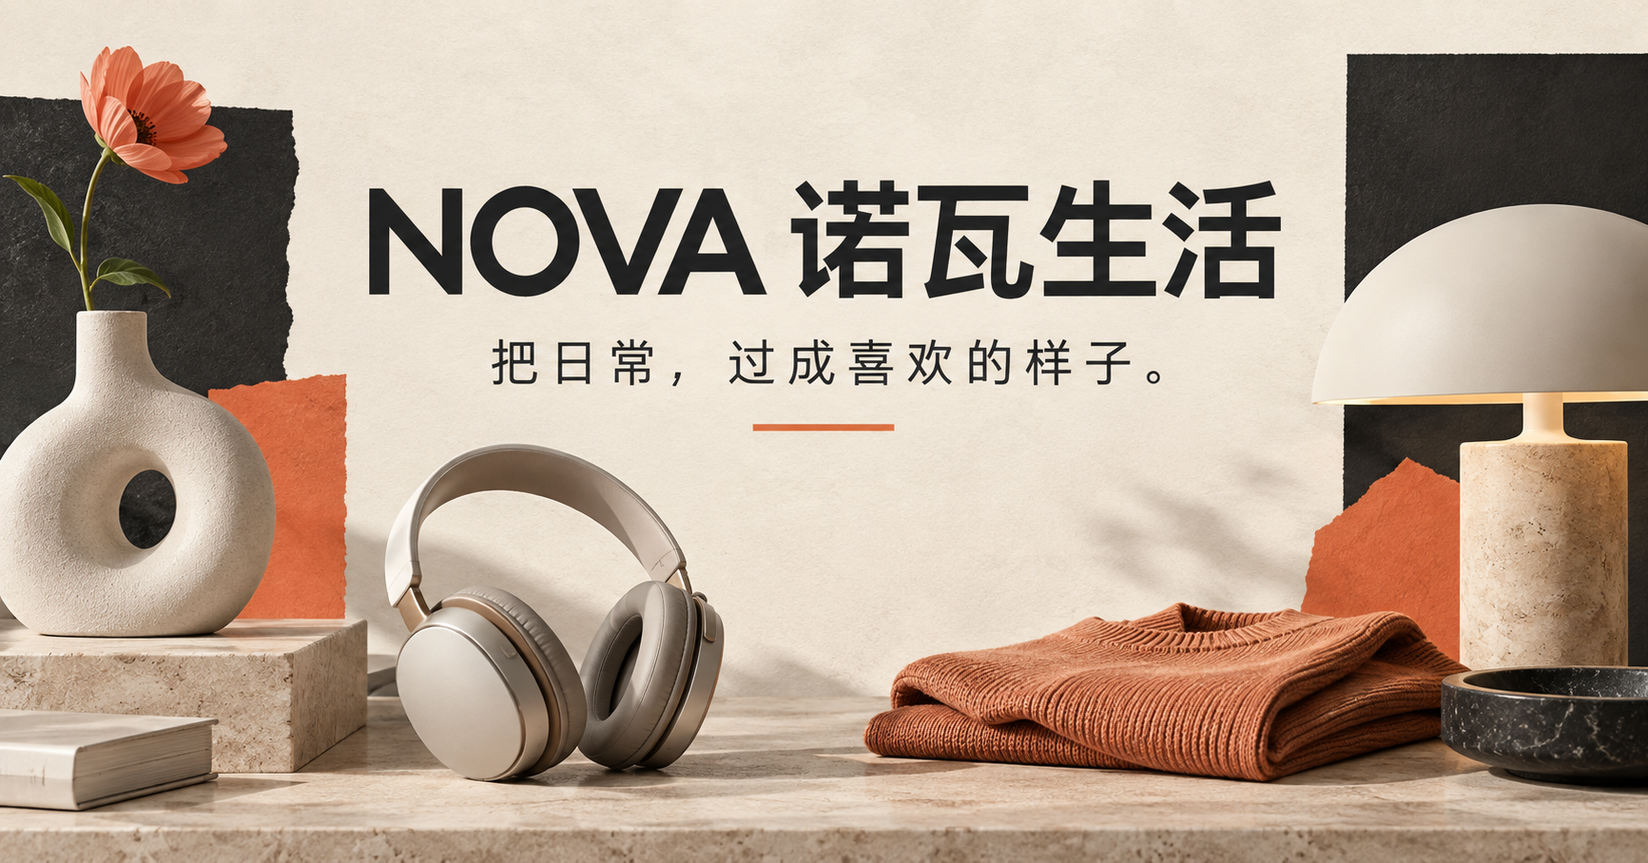
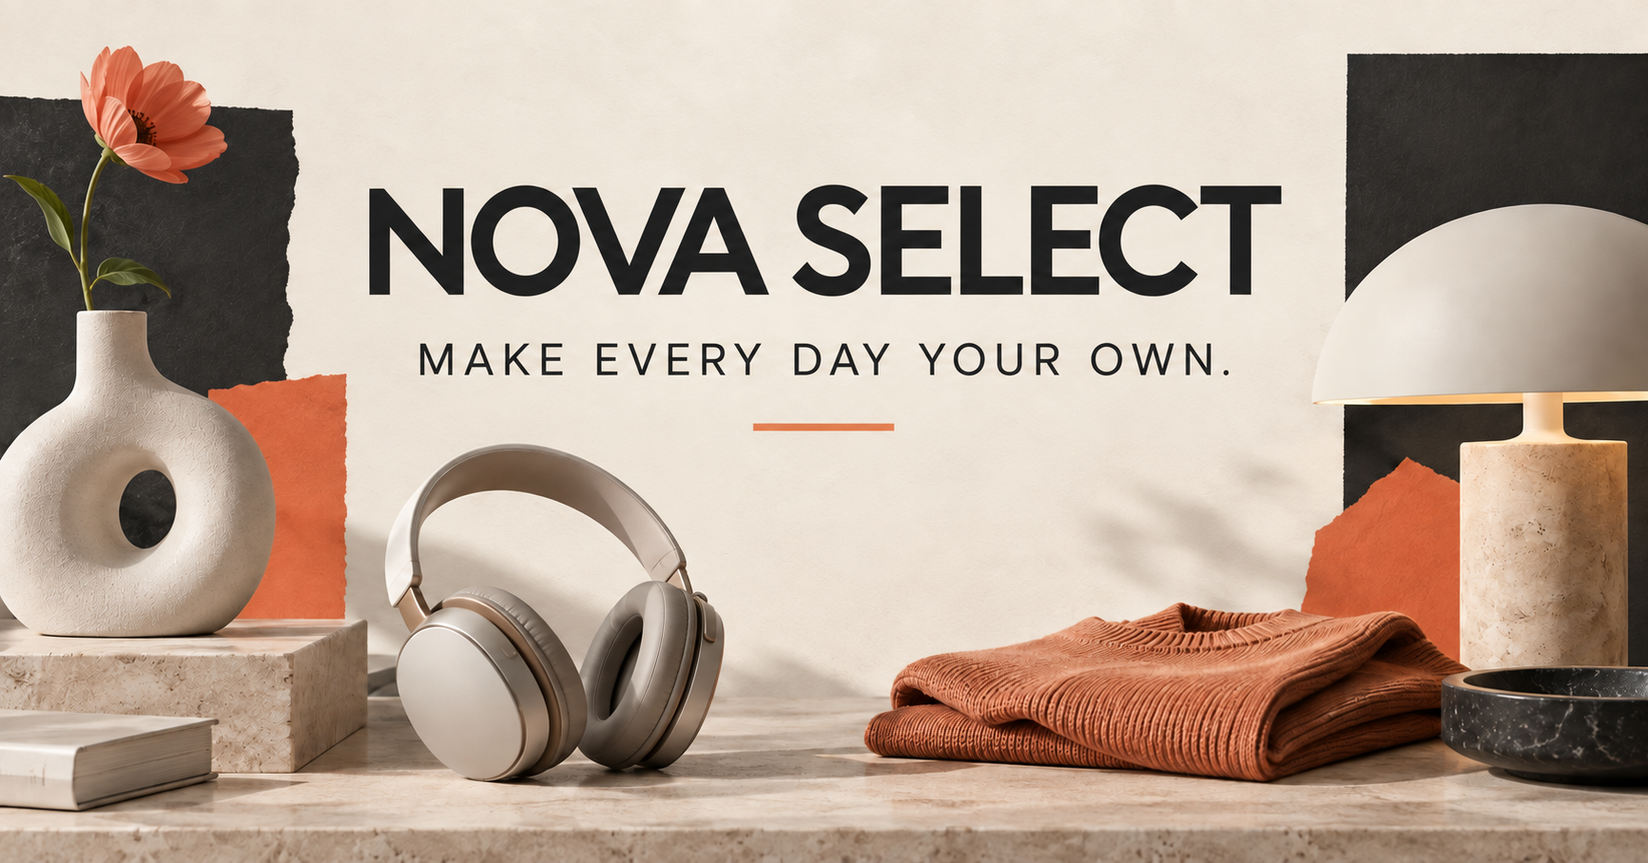
Translate storefront to English

diff --git a/app/page.tsx b/app/page.tsx
@@ -13,24 +13,24 @@ type Product = {
 };
 
 const products: Product[] = [
-  { id: 1, name: "Orbit 头戴式耳机", category: "数码影音", price: 899, badge: "NEW", image: "https://images.unsplash.com/photo-1505740420928-5e560c06d30e?auto=format&fit=crop&w=1000&q=85" },
-  { id: 2, name: "Cloud 陶瓷花器", category: "生活家居", price: 269, image: "https://images.unsplash.com/photo-1618220179428-22790b461013?auto=format&fit=crop&w=1000&q=85" },
-  { id: 3, name: "Lumen 桌面氛围灯", category: "生活家居", price: 459, badge: "HOT", image: "https://images.unsplash.com/photo-1507473885765-e6ed057f782c?auto=format&fit=crop&w=1000&q=85" },
-  { id: 4, name: "Studio 皮革托特包", category: "服装鞋履", price: 729, original: 899, badge: "SALE", image: "https://images.unsplash.com/photo-1548036328-c9fa89d128fa?auto=format&fit=crop&w=1000&q=85" },
-  { id: 5, name: "Sunday 手冲咖啡壶", category: "生活家居", price: 329, image: "https://images.unsplash.com/photo-1495474472287-4d71bcdd2085?auto=format&fit=crop&w=1000&q=85" },
-  { id: 6, name: "Tempo 极简腕表", category: "服装鞋履", price: 1199, badge: "NEW", image: "https://images.unsplash.com/photo-1523275335684-37898b6baf30?auto=format&fit=crop&w=1000&q=85" },
-  { id: 7, name: "Form 轻量运动鞋", category: "户外出行", price: 639, image: "https://images.unsplash.com/photo-1542291026-7eec264c27ff?auto=format&fit=crop&w=1000&q=85" },
-  { id: 8, name: "Still 香氛蜡烛", category: "美妆个护", price: 189, image: "https://images.unsplash.com/photo-1602874801006-e26b3748a09f?auto=format&fit=crop&w=1000&q=85" },
+  { id: 1, name: "Orbit Headphones", category: "Tech & Audio", price: 89, badge: "NEW", image: "https://images.unsplash.com/photo-1505740420928-5e560c06d30e?auto=format&fit=crop&w=1000&q=85" },
+  { id: 2, name: "Cloud Ceramic Vase", category: "Home & Living", price: 39, image: "https://images.unsplash.com/photo-1618220179428-22790b461013?auto=format&fit=crop&w=1000&q=85" },
+  { id: 3, name: "Lumen Table Lamp", category: "Home & Living", price: 69, badge: "HOT", image: "https://images.unsplash.com/photo-1507473885765-e6ed057f782c?auto=format&fit=crop&w=1000&q=85" },
+  { id: 4, name: "Studio Leather Tote", category: "Style", price: 119, original: 149, badge: "SALE", image: "https://images.unsplash.com/photo-1548036328-c9fa89d128fa?auto=format&fit=crop&w=1000&q=85" },
+  { id: 5, name: "Sunday Pour-Over Set", category: "Home & Living", price: 49, image: "https://images.unsplash.com/photo-1495474472287-4d71bcdd2085?auto=format&fit=crop&w=1000&q=85" },
+  { id: 6, name: "Tempo Minimal Watch", category: "Style", price: 149, badge: "NEW", image: "https://images.unsplash.com/photo-1523275335684-37898b6baf30e?auto=format&fit=crop&w=1000&q=85" },
+  { id: 7, name: "Form Lightweight Sneakers", category: "Outdoor", price: 79, image: "https://images.unsplash.com/photo-1542291026-7eec264c27ff?auto=format&fit=crop&w=1000&q=85" },
+  { id: 8, name: "Still Scented Candle", category: "Beauty & Care", price: 32, image: "https://images.unsplash.com/photo-1602874801006-e26b3748a09f?auto=format&fit=crop&w=1000&q=85" },
 ];
 
 const categories = [
-  ["01", "服装鞋履"], ["02", "生活家居"], ["03", "数码影音"], ["04", "美妆个护"], ["05", "户外出行"],
+  ["01", "Style"], ["02", "Home & Living"], ["03", "Tech & Audio"], ["04", "Beauty & Care"], ["05", "Outdoor"],
 ];
 
-const formatPrice = (price: number) => `¥${price.toLocaleString("zh-CN")}`;
+const formatPrice = (price: number) => `$${price.toFixed(2)}`;
 
 export default function Home() {
-  const [activeCategory, setActiveCategory] = useState("全部");
+  const [activeCategory, setActiveCategory] = useState("All");
   const [cart, setCart] = useState<number[]>([]);
   const [favorites, setFavorites] = useState<number[]>([]);
   const [searchOpen, setSearchOpen] = useState(false);
@@ -40,7 +40,7 @@ export default function Home() {
   const [toast, setToast] = useState("");
   const [email, setEmail] = useState("");
 
-  const visibleProducts = useMemo(() => activeCategory === "全部" ? products : products.filter((item) => item.category === activeCategory), [activeCategory]);
+  const visibleProducts = useMemo(() => activeCategory === "All" ? products : products.filter((item) => item.category === activeCategory), [activeCategory]);
   const searchResults = useMemo(() => products.filter((item) => `${item.name}${item.category}`.toLowerCase().includes(query.toLowerCase())), [query]);
   const cartItems = products.filter((item) => cart.includes(item.id));
   const subtotal = cartItems.reduce((sum, item) => sum + item.price, 0);
@@ -52,7 +52,7 @@ export default function Home() {
 
   const addToCart = (product: Product) => {
     if (!cart.includes(product.id)) setCart((items) => [...items, product.id]);
-    notify(cart.includes(product.id) ? "这件好物已经在购物袋里" : `已将「${product.name}」加入购物袋`);
+    notify(cart.includes(product.id) ? "This item is already in your bag" : `${product.name} added to your bag`);
   };
 
   const filterBy = (category: string) => {
@@ -62,57 +62,57 @@ export default function Home() {
 
   const submitNewsletter = (event: FormEvent) => {
     event.preventDefault();
-    if (!email.includes("@")) return notify("请填写有效的邮箱地址");
+    if (!email.includes("@")) return notify("Please enter a valid email address");
     setEmail("");
-    notify("订阅成功，欢迎加入 NOVA");
+    notify("You’re in — welcome to NOVA");
   };
 
   return (
     <main id="top">
-      <div className="notice"><span>新客首单立减 ¥50</span><i />满 ¥299 免费配送</div>
+      <div className="notice"><span>$10 OFF YOUR FIRST ORDER</span><i />FREE SHIPPING OVER $75</div>
       <header className="site-header">
-        <button className="menu-button" onClick={() => setMenuOpen(true)} aria-label="打开菜单">☰</button>
-        <a className="brand" href="#top" aria-label="NOVA 商城首页"><span className="brand-mark">N</span><span>NOVA</span></a>
-        <nav aria-label="主导航">
-          <a className="active" href="#new">新品</a><a href="#shop">精选好物</a><a href="#story">灵感指南</a><a href="#about">关于我们</a>
+        <button className="menu-button" onClick={() => setMenuOpen(true)} aria-label="Open menu">☰</button>
+        <a className="brand" href="#top" aria-label="NOVA home"><span className="brand-mark">N</span><span>NOVA</span></a>
+        <nav aria-label="Main navigation">
+          <a className="active" href="#new">New In</a><a href="#shop">Shop</a><a href="#story">Journal</a><a href="#about">Our Story</a>
         </nav>
         <div className="header-actions">
-          <button onClick={() => setSearchOpen(true)} aria-label="搜索"><span className="search-icon" /></button>
-          <button className="user-icon" onClick={() => notify("会员中心即将开放")} aria-label="个人中心">○</button>
-          <button className="bag-button" onClick={() => setCartOpen(true)} aria-label={`购物袋，${cart.length} 件商品`}><span className="bag-icon">▱</span><b>{cart.length}</b></button>
+          <button onClick={() => setSearchOpen(true)} aria-label="Search"><span className="search-icon" /></button>
+          <button className="user-icon" onClick={() => notify("Member accounts are coming soon")} aria-label="Account">○</button>
+          <button className="bag-button" onClick={() => setCartOpen(true)} aria-label={`Shopping bag, ${cart.length} items`}><span className="bag-icon">▱</span><b>{cart.length}</b></button>
         </div>
       </header>
 
       <section className="hero" id="new">
         <div className="hero-copy">
           <p className="eyebrow">NEW SEASON · 2026</p>
-          <h1>把日常，<br /><em>过成喜欢的样子。</em></h1>
-          <p className="hero-description">从轻盈穿搭到温柔家居，发现让生活焕然一新的设计好物。</p>
-          <a className="primary-button" href="#shop">探索本季新品 <span>→</span></a>
+          <h1>Make every day<br /><em>feel like your own.</em></h1>
+          <p className="hero-description">From effortless style to thoughtful interiors, discover design-led pieces that bring fresh energy to everyday life.</p>
+          <a className="primary-button" href="#shop">Explore the new season <span>→</span></a>
           <div className="hero-stats">
-            <div><strong>200+</strong><span>独立设计品牌</span></div><div><strong>48h</strong><span>闪电发货</span></div><div><strong>30天</strong><span>无忧退换</span></div>
+            <div><strong>200+</strong><span>Independent brands</span></div><div><strong>48h</strong><span>Fast dispatch</span></div><div><strong>30 days</strong><span>Easy returns</span></div>
           </div>
         </div>
-        <div className="hero-visual" aria-label="本季新品穿搭">
-          <img src="https://cdn.aboutstatic.com/file/images/2ae6d68e3c6cc2168253f1cb230efe0a.jpeg?quality=85" alt="模特身穿红色夹克的本季造型" />
-          <div className="hero-badge"><span>本周甄选</span><strong>20% OFF</strong></div>
-          <div className="floating-note"><span>EDITOR&apos;S PICK</span><strong>都市漫游系列</strong><small>轻装，自在出发</small></div>
+        <div className="hero-visual" aria-label="New-season styling">
+          <img src="https://cdn.aboutstatic.com/file/images/2ae6d68e3c6cc2168253f1cb230efe0a.jpeg?quality=85" alt="Model wearing a red jacket from the new-season collection" />
+          <div className="hero-badge"><span>WEEKLY EDIT</span><strong>20% OFF</strong></div>
+          <div className="floating-note"><span>EDITOR&apos;S PICK</span><strong>City Roam</strong><small>Travel light. Move freely.</small></div>
           <span className="vertical-copy">SPRING / SUMMER COLLECTION</span>
         </div>
       </section>
 
-      <section className="category-strip" aria-label="商品分类">
+      <section className="category-strip" aria-label="Product categories">
         {categories.map(([no, label]) => <button onClick={() => filterBy(label)} key={no}><span>{no}</span>{label}<b>↗</b></button>)}
       </section>
 
       <section className="featured" id="shop">
         <div className="section-heading">
-          <div><p className="eyebrow">CURATED FOR YOU</p><h2>本周灵感精选</h2></div>
-          <p>每一件都经过编辑团队真实体验，<br />只留下兼具设计与实用的好物。</p>
+          <div><p className="eyebrow">CURATED FOR YOU</p><h2>This Week’s Edit</h2></div>
+          <p>Every piece is tried and tested by our editors,<br />selected for both form and function.</p>
         </div>
-        <div className="filter-row" role="group" aria-label="商品分类筛选">
-          {["全部", ...categories.map((item) => item[1])].map((category) => <button className={activeCategory === category ? "active" : ""} onClick={() => setActiveCategory(category)} key={category}>{category}</button>)}
-          <span>{visibleProducts.length} 件商品</span>
+        <div className="filter-row" role="group" aria-label="Filter products by category">
+          {["All", ...categories.map((item) => item[1])].map((category) => <button className={activeCategory === category ? "active" : ""} onClick={() => setActiveCategory(category)} key={category}>{category}</button>)}
+          <span>{visibleProducts.length} products</span>
         </div>
         <div className="product-grid">
           {visibleProducts.map((product) => (
@@ -120,47 +120,47 @@ export default function Home() {
               <div className="product-image">
                 <img src={product.image} alt={product.name} />
                 {product.badge && <span className={`product-badge ${product.badge.toLowerCase()}`}>{product.badge}</span>}
-                <button className={`favorite ${favorites.includes(product.id) ? "selected" : ""}`} onClick={() => setFavorites((items) => items.includes(product.id) ? items.filter((id) => id !== product.id) : [...items, product.id])} aria-label={`收藏${product.name}`}>{favorites.includes(product.id) ? "♥" : "♡"}</button>
-                <button className="quick-add" onClick={() => addToCart(product)}>{cart.includes(product.id) ? "✓ 已加入购物袋" : "＋ 加入购物袋"}</button>
+                <button className={`favorite ${favorites.includes(product.id) ? "selected" : ""}`} onClick={() => setFavorites((items) => items.includes(product.id) ? items.filter((id) => id !== product.id) : [...items, product.id])} aria-label={`Save ${product.name}`}>{favorites.includes(product.id) ? "♥" : "♡"}</button>
+                <button className="quick-add" onClick={() => addToCart(product)}>{cart.includes(product.id) ? "✓ Added to bag" : "+ Add to bag"}</button>
               </div>
               <div className="product-meta"><div><span>{product.category}</span><h3>{product.name}</h3></div><div className="price"><strong>{formatPrice(product.price)}</strong>{product.original && <del>{formatPrice(product.original)}</del>}</div></div>
             </article>
           ))}
         </div>
-        {visibleProducts.length === 0 && <div className="empty-state">该分类的新品正在路上，先看看其他好物吧。</div>}
+        {visibleProducts.length === 0 && <div className="empty-state">New pieces are on the way. Explore another collection for now.</div>}
       </section>
 
       <section className="story-section" id="story">
-        <div className="story-image"><img src="https://images.unsplash.com/photo-1494438639946-1ebd1d20bf85?auto=format&fit=crop&w=1500&q=85" alt="布置温暖的现代客厅" /><span>VOL. 04</span></div>
-        <div className="story-copy"><p className="eyebrow">NOVA JOURNAL</p><h2>空间不必很大，<br />生活要有余地。</h2><p>我们拜访了三位创意工作者，看看他们如何用一盏灯、一把椅子和一点留白，搭出真正属于自己的家。</p><a href="#shop">阅读本期灵感 <span>→</span></a></div>
+        <div className="story-image"><img src="https://images.unsplash.com/photo-1494438639946-1ebd1d20bf85?auto=format&fit=crop&w=1500&q=85" alt="Warmly styled modern living room" /><span>VOL. 04</span></div>
+        <div className="story-copy"><p className="eyebrow">NOVA JOURNAL</p><h2>You don’t need more space.<br />You need room to live.</h2><p>We visited three creative homes to see how one light, one chair and a little breathing room can make a space feel truly personal.</p><a href="#shop">Read the story <span>→</span></a></div>
       </section>
 
       <section className="values" id="about">
         <p className="eyebrow">WHY NOVA</p>
         <div className="value-grid">
-          <div><b>01</b><h3>设计有来处</h3><p>认识每一件产品背后的品牌与创作者。</p></div>
-          <div><b>02</b><h3>品质经得住日常</h3><p>从材质、工艺到体验，我们替你认真筛选。</p></div>
-          <div><b>03</b><h3>包装少一点</h3><p>减少不必要的包装，让好设计更轻盈地抵达。</p></div>
+          <div><b>01</b><h3>Design with a story</h3><p>Meet the independent brands and makers behind every piece.</p></div>
+          <div><b>02</b><h3>Made for real life</h3><p>Materials, craft and feel — we test every detail before it reaches you.</p></div>
+          <div><b>03</b><h3>Less packaging</h3><p>We keep the extras to a minimum so good design travels lighter.</p></div>
         </div>
       </section>
 
       <section className="newsletter">
-        <div><p className="eyebrow">STAY INSPIRED</p><h2>把灵感，送进收件箱。</h2></div>
-        <form onSubmit={submitNewsletter}><label htmlFor="email">订阅 NOVA 周刊，获取新品与会员专属礼遇</label><div><input id="email" type="email" value={email} onChange={(event) => setEmail(event.target.value)} placeholder="你的邮箱地址" /><button type="submit">订阅 <span>→</span></button></div></form>
+        <div><p className="eyebrow">STAY INSPIRED</p><h2>A little inspiration,<br />straight to your inbox.</h2></div>
+        <form onSubmit={submitNewsletter}><label htmlFor="email">Join the NOVA journal for new arrivals and member-only edits.</label><div><input id="email" type="email" value={email} onChange={(event) => setEmail(event.target.value)} placeholder="Your email address" /><button type="submit">Subscribe <span>→</span></button></div></form>
       </section>
 
       <footer>
-        <div className="footer-brand"><a className="brand" href="#top"><span className="brand-mark">N</span><span>NOVA</span></a><p>好设计，让日常自然发光。</p></div>
-        <div className="footer-links"><div><strong>选购</strong><a href="#new">本季新品</a><a href="#shop">全站商品</a><a href="#story">编辑精选</a></div><div><strong>服务</strong><a href="#about">配送说明</a><a href="#about">退换政策</a><a href="#about">帮助中心</a></div><div><strong>关注</strong><a href="#about">小红书</a><a href="#about">微信公众号</a><a href="#about">微博</a></div></div>
-        <div className="footer-bottom"><span>© 2026 NOVA SELECT SHOP</span><a href="#top">回到顶部 ↑</a></div>
+        <div className="footer-brand"><a className="brand" href="#top"><span className="brand-mark">N</span><span>NOVA</span></a><p>Good design makes the everyday shine.</p></div>
+        <div className="footer-links"><div><strong>SHOP</strong><a href="#new">New Arrivals</a><a href="#shop">All Products</a><a href="#story">Editor’s Picks</a></div><div><strong>HELP</strong><a href="#about">Shipping</a><a href="#about">Returns</a><a href="#about">Help Center</a></div><div><strong>FOLLOW</strong><a href="#about">Instagram</a><a href="#about">Pinterest</a><a href="#about">TikTok</a></div></div>
+        <div className="footer-bottom"><span>© 2026 NOVA SELECT SHOP</span><a href="#top">BACK TO TOP ↑</a></div>
       </footer>
 
-      {searchOpen && <div className="overlay" onMouseDown={() => setSearchOpen(false)}><section className="search-panel" onMouseDown={(event) => event.stopPropagation()}><button className="close" onClick={() => setSearchOpen(false)} aria-label="关闭搜索">×</button><p className="eyebrow">SEARCH NOVA</p><h2>今天想找什么？</h2><input autoFocus value={query} onChange={(event) => setQuery(event.target.value)} placeholder="试试搜索：耳机、花器、灯..." /><div className="search-results">{query ? searchResults.map((item) => <button key={item.id} onClick={() => { addToCart(item); setSearchOpen(false); }}><img src={item.image} alt="" /><span><small>{item.category}</small>{item.name}</span><strong>{formatPrice(item.price)}</strong></button>) : <p>热门搜索：桌面好物 · 春日穿搭 · 通勤包袋</p>}{query && !searchResults.length && <p>没有找到相关商品，换个关键词试试。</p>}</div></section></div>}
+      {searchOpen && <div className="overlay" onMouseDown={() => setSearchOpen(false)}><section className="search-panel" onMouseDown={(event) => event.stopPropagation()}><button className="close" onClick={() => setSearchOpen(false)} aria-label="Close search">×</button><p className="eyebrow">SEARCH NOVA</p><h2>What are you looking for?</h2><input autoFocus value={query} onChange={(event) => setQuery(event.target.value)} placeholder="Try headphones, vase, lamp..." /><div className="search-results">{query ? searchResults.map((item) => <button key={item.id} onClick={() => { addToCart(item); setSearchOpen(false); }}><img src={item.image} alt="" /><span><small>{item.category}</small>{item.name}</span><strong>{formatPrice(item.price)}</strong></button>) : <p>Trending: Desk refresh · Spring layers · Everyday totes</p>}{query && !searchResults.length && <p>No matches yet. Try another search term.</p>}</div></section></div>}
 
       <div className={`drawer-backdrop ${cartOpen ? "visible" : ""}`} onClick={() => setCartOpen(false)} />
-      <aside className={`cart-drawer ${cartOpen ? "open" : ""}`} aria-hidden={!cartOpen}><div className="drawer-head"><div><p className="eyebrow">YOUR BAG</p><h2>购物袋 <sup>{cart.length}</sup></h2></div><button onClick={() => setCartOpen(false)} aria-label="关闭购物袋">×</button></div><div className="cart-list">{cartItems.length ? cartItems.map((item) => <article key={item.id}><img src={item.image} alt={item.name} /><div><small>{item.category}</small><h3>{item.name}</h3><strong>{formatPrice(item.price)}</strong><button onClick={() => setCart((items) => items.filter((id) => id !== item.id))}>移除</button></div></article>) : <div className="cart-empty"><span>▱</span><h3>购物袋还是空的</h3><p>去发现一件让日常发光的好物吧。</p><button onClick={() => setCartOpen(false)}>继续逛逛</button></div>}</div>{cartItems.length > 0 && <div className="cart-summary"><p><span>商品小计</span><strong>{formatPrice(subtotal)}</strong></p><small>满 ¥299 免费配送，税费将在结算时计算</small><button onClick={() => notify("结算功能即将开放")}>去结算 <span>→</span></button></div>}</aside>
+      <aside className={`cart-drawer ${cartOpen ? "open" : ""}`} aria-hidden={!cartOpen}><div className="drawer-head"><div><p className="eyebrow">YOUR BAG</p><h2>Shopping Bag <sup>{cart.length}</sup></h2></div><button onClick={() => setCartOpen(false)} aria-label="Close shopping bag">×</button></div><div className="cart-list">{cartItems.length ? cartItems.map((item) => <article key={item.id}><img src={item.image} alt={item.name} /><div><small>{item.category}</small><h3>{item.name}</h3><strong>{formatPrice(item.price)}</strong><button onClick={() => setCart((items) => items.filter((id) => id !== item.id))}>Remove</button></div></article>) : <div className="cart-empty"><span>▱</span><h3>Your bag is empty</h3><p>Discover something made to brighten the everyday.</p><button onClick={() => setCartOpen(false)}>Keep browsing</button></div>}</div>{cartItems.length > 0 && <div className="cart-summary"><p><span>Subtotal</span><strong>{formatPrice(subtotal)}</strong></p><small>Free shipping over $75. Taxes calculated at checkout.</small><button onClick={() => notify("Checkout is coming soon")}>Checkout <span>→</span></button></div>}</aside>
 
-      <div className={`mobile-nav ${menuOpen ? "open" : ""}`}><button onClick={() => setMenuOpen(false)} aria-label="关闭菜单">×</button><a onClick={() => setMenuOpen(false)} href="#new"><span>01</span>本季新品</a><a onClick={() => setMenuOpen(false)} href="#shop"><span>02</span>精选好物</a><a onClick={() => setMenuOpen(false)} href="#story"><span>03</span>灵感指南</a><a onClick={() => setMenuOpen(false)} href="#about"><span>04</span>关于我们</a></div>
+      <div className={`mobile-nav ${menuOpen ? "open" : ""}`}><button onClick={() => setMenuOpen(false)} aria-label="Close menu">×</button><a onClick={() => setMenuOpen(false)} href="#new"><span>01</span>New In</a><a onClick={() => setMenuOpen(false)} href="#shop"><span>02</span>Shop</a><a onClick={() => setMenuOpen(false)} href="#story"><span>03</span>Journal</a><a onClick={() => setMenuOpen(false)} href="#about"><span>04</span>Our Story</a></div>
       <div className={`toast ${toast ? "show" : ""}`} role="status">{toast}</div>
     </main>
   );

diff --git a/app/layout.tsx b/app/layout.tsx
@@ -15,17 +15,17 @@ const geistMono = Geist_Mono({
 
 export const metadata: Metadata = {
   metadataBase: new URL("https://nova-select-life.sound-charm-7867.chatgpt.site"),
-  title: "NOVA 诺瓦生活｜设计好物商城",
-  description: "发现服装、家居、数码与生活方式好物，把日常过成喜欢的样子。",
+  title: "NOVA Select | Design for Everyday Life",
+  description: "Discover independent style, homeware, tech and lifestyle pieces selected for better everyday living.",
   openGraph: {
-    title: "NOVA 诺瓦生活｜设计好物商城",
-    description: "把日常，过成喜欢的样子。发现值得长期相伴的设计好物。",
-    images: [{ url: "/og.png", width: 1733, height: 908, alt: "NOVA 诺瓦生活" }],
+    title: "NOVA Select | Design for Everyday Life",
+    description: "Make every day your own with design-led pieces selected for real life.",
+    images: [{ url: "/og.png", width: 1733, height: 908, alt: "NOVA Select" }],
   },
   twitter: {
     card: "summary_large_image",
-    title: "NOVA 诺瓦生活｜设计好物商城",
-    description: "把日常，过成喜欢的样子。发现值得长期相伴的设计好物。",
+    title: "NOVA Select | Design for Everyday Life",
+    description: "Make every day your own with design-led pieces selected for real life.",
     images: ["/og.png"],
   },
 };
@@ -33,7 +33,7 @@ export const metadata: Metadata = {
 export default function RootLayout({ children }: LayoutProps<"/">) {
   return (
     <html
-      lang="zh-CN"
+      lang="en"
       className={`${geistSans.variable} ${geistMono.variable} h-full antialiased`}
     >
       <GoogleAnalytics gaId="G-RGDGHXDW4L" />
